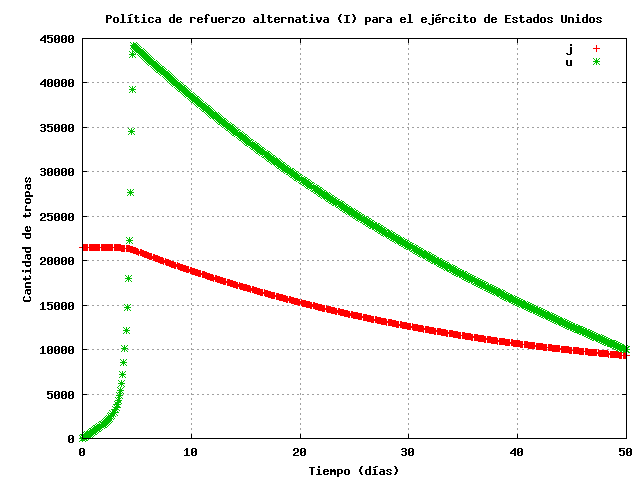
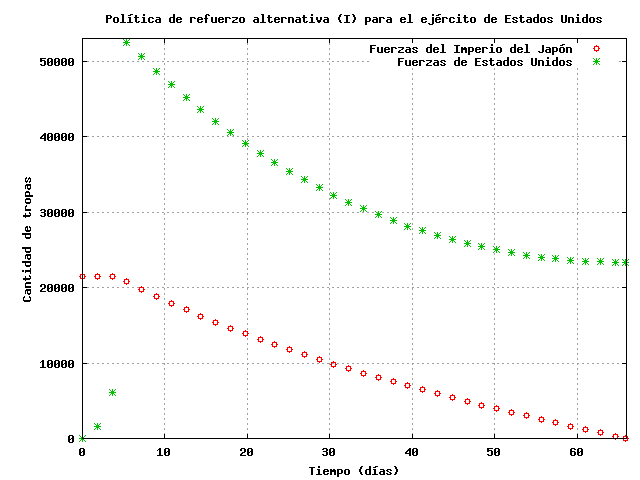
Modificaciones a los scripts y graficos

diff --git a/tp1_iwojima/src/iwojima.m b/tp1_iwojima/src/iwojima.m
@@ -57,7 +57,7 @@ japan_vs_usa.usa = x2;
 # --------------------------------------------------
 figure(1);
 
-plot (japan_vs_usa.t, japan_vs_usa.japan,strcat(";Fuerzas del Imperio del Jap",sprintf("%c",243),"n;"), japan_vs_usa.t, japan_vs_usa.usa,strcat("*;Fuerzas de Estados Unidos;"));
+plot (japan_vs_usa.t, japan_vs_usa.japan,strcat("o;Fuerzas del Imperio del Jap",sprintf("%c",243),"n;"), japan_vs_usa.t, japan_vs_usa.usa,strcat("*;Fuerzas de Estados Unidos;"));
 title (strcat("Simulaci",sprintf("%c",243),"n num",sprintf("%c",233),"rica de la batalla de Iwo Jima"));
 
 xlabel (strcat("Tiempo (d",sprintf("%c",237),"as)"));
@@ -72,9 +72,9 @@ print -dpng jap_vs_usa.png -mono -dashed -S640
 # --------------------------------------------------
 figure(2);
 
-other_t = linspace(1,days,40);
-plot(japan_vs_usa.t, japan_vs_usa.usa,"-;Unidades simuladas;",other_t,american(other_t)',"+;Unidades reales;","markersize",10);
-title (strcat("Comparaci",sprintf("%c",243),"n de fuerzas reales contra simuladas en la batalla de Iwo Jima para Estados Unidos"));
+plot(japan_vs_usa.t, japan_vs_usa.usa,"*;Unidades simuladas;",[7,9,12,19,24],[66000, 62000, 58500, 56200, 54000],strcat("+;Unidades hist",sprintf("%c",243),"ricas;"),"markersize",10);
+
+title (strcat("Comparaci",sprintf("%c",243),"n de datos hist",sprintf("%c",243),"ricos contra datos simulados (Estados Unidos)"));
 
 xlabel (strcat("Tiempo (d",sprintf("%c",237),"as)"));
 ylabel ("Cantidad de tropas");
@@ -104,7 +104,7 @@ print -dpng  real_vs_sim.png -mono -dashed -S640
 
 [t x1 x2] = combat_simulator(
         [21500,0],              #Cantidad de fuerzas en combate: ej: [japon usa]
-        50,             
+        70,             
         "zeroreinforcement",    #política de refuerzos de la primera fuerza
         "reinforcement2");       #política de refuerzos de la segunda fuerza
 
@@ -114,7 +114,7 @@ reinforce2.usa = x2;
 
 figure(3);
 
-plot (reinforce2.t, reinforce2.japan,"+;j;", reinforce2.t, reinforce2.usa,"*;u;");
+plot (reinforce2.t, reinforce2.japan,strcat("o;Fuerzas del Imperio del Jap",sprintf("%c",243),"n;"), reinforce2.t, reinforce2.usa,"*;Fuerzas de Estados Unidos;");
 title (strcat("Pol",sprintf("%c",237),"tica de refuerzo alternativa (I) para el ej",sprintf("%c",233),"rcito de Estados Unidos"));
 
 xlabel (strcat("Tiempo (d",sprintf("%c",237),"as)"));
@@ -130,7 +130,7 @@ print -dpng reinforce2.png -mono -dashed -S640
 
 [t x1 x2] = combat_simulator(
         [21500,0],              #Cantidad de fuerzas en combate: ej: [japon usa]
-        30,             
+        16,             
         "zeroreinforcement",    #política de refuerzos de la primera fuerza
         "reinforcement3");       #política de refuerzos de la segunda fuerza
 
@@ -140,7 +140,7 @@ reinforce3.usa = x2;
 
 figure(3);
 
-plot (reinforce3.t, reinforce3.japan,"+;j;", reinforce3.t, reinforce3.usa,"*;u;");
+plot (reinforce3.t, reinforce3.japan, strcat("o;Fuerzas del Imperio del Jap",sprintf("%c",243),"n;"), reinforce3.t, reinforce3.usa,"*;Fuerzas de Estados Unidos;");
 title (strcat("Pol",sprintf("%c",237),"tica de refuerzo alternativa (II) para el ej",sprintf("%c",233),"rcito de Estados Unidos"));
 
 xlabel (strcat("Tiempo (d",sprintf("%c",237),"as)"));

diff --git a/tp1_iwojima/src/combat_simulator.m b/tp1_iwojima/src/combat_simulator.m
@@ -22,14 +22,10 @@ function [t2 x1 x2] = combat_simulator(forces, trex, r1,r2)
     global R
     R = [r1;r2];
 
-    #lsode way:
-    #res = lsode('lsodee', forces, (t = linspace(0,trex,100))');
-    #t2 = t';
-
-    #ode45 way
-    vopt = odeset ("RelTol", 1e-3, "AbsTol", 1e-3, "NormControl", "on",
-        "MaxStep",1e-1, "Events", @zero_crossing, "InitialStep", 1e-3);
-    [t2, res] = ode45(@lsodee, [0,trex], forces, vopt);
+    vopt = odeset ("RelTol", 1e-3, "AbsTol", 1e-3, 
+    "NormControl", "on",
+        "MaxStep",1, "Events", @zero_crossing, "InitialStep", 1e-1);
+    [t2, res] = ode45(@lsodee, linspace(0,trex,40), forces, vopt);
     
     x1 = res(:,1);
     x2 = res(:,2);
